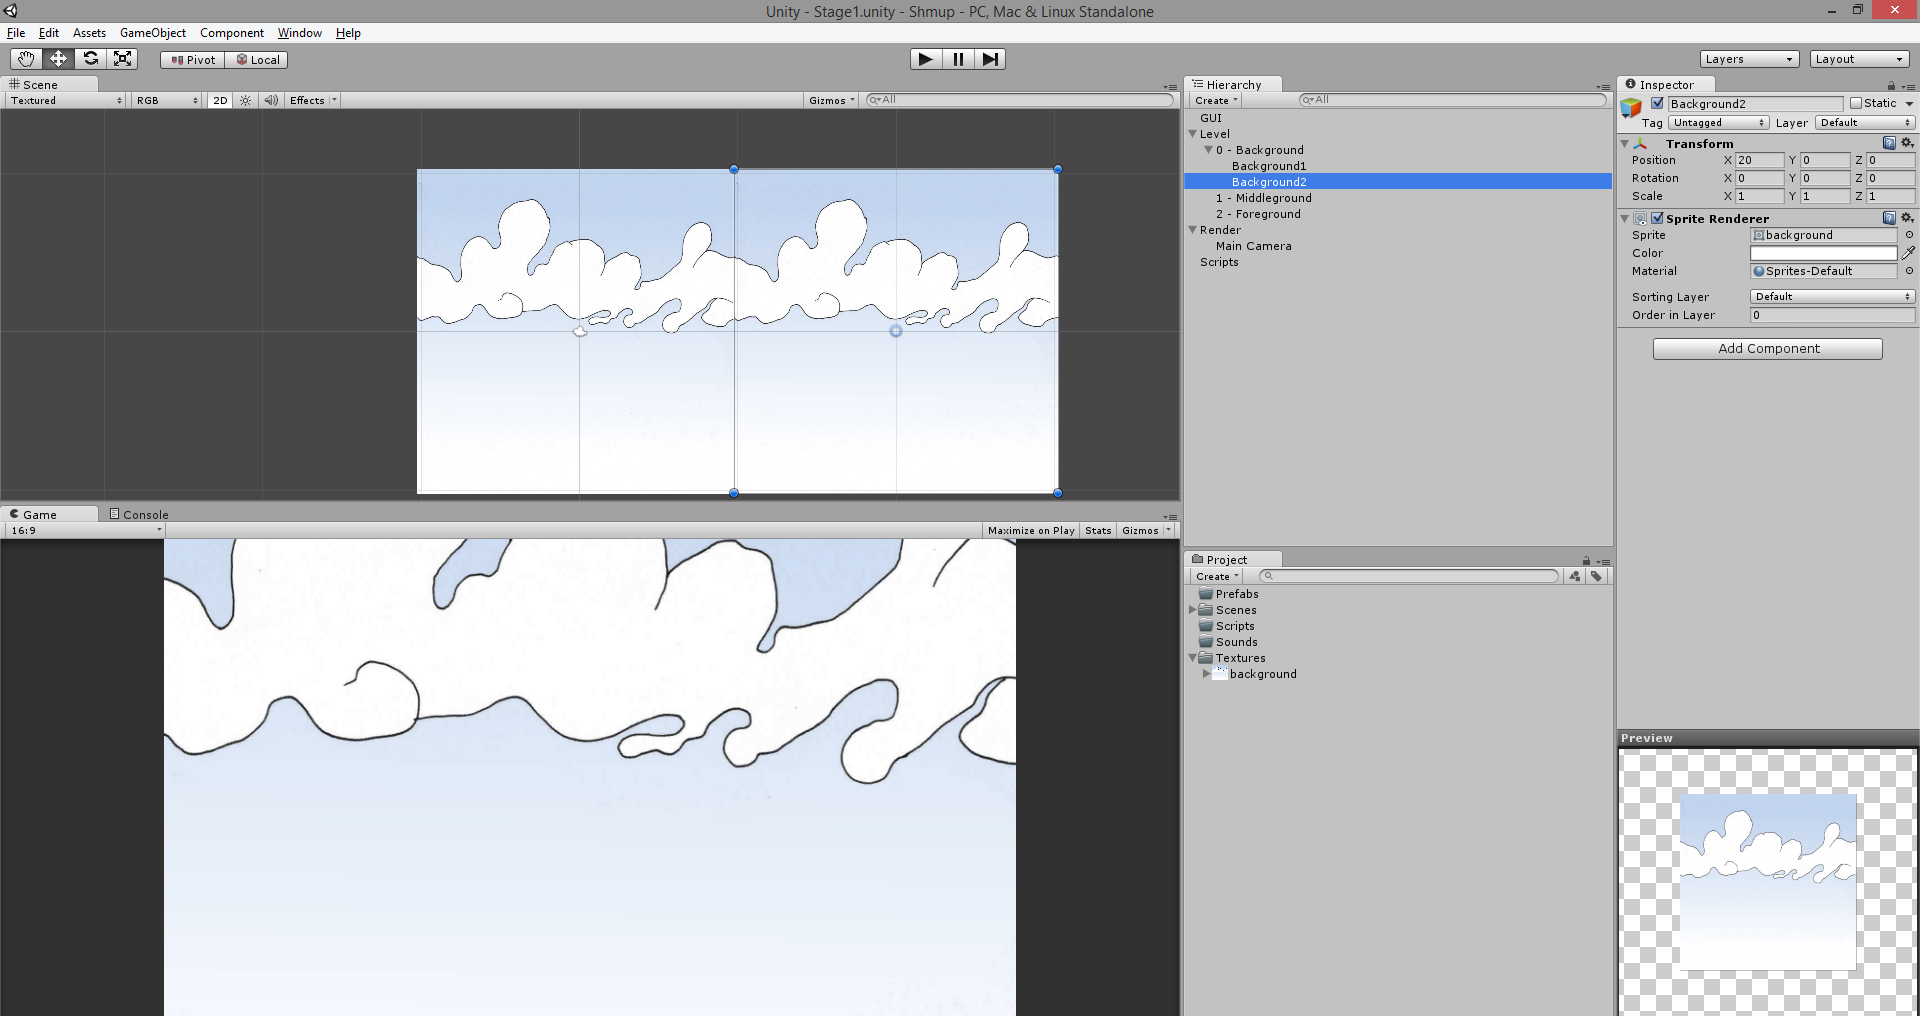
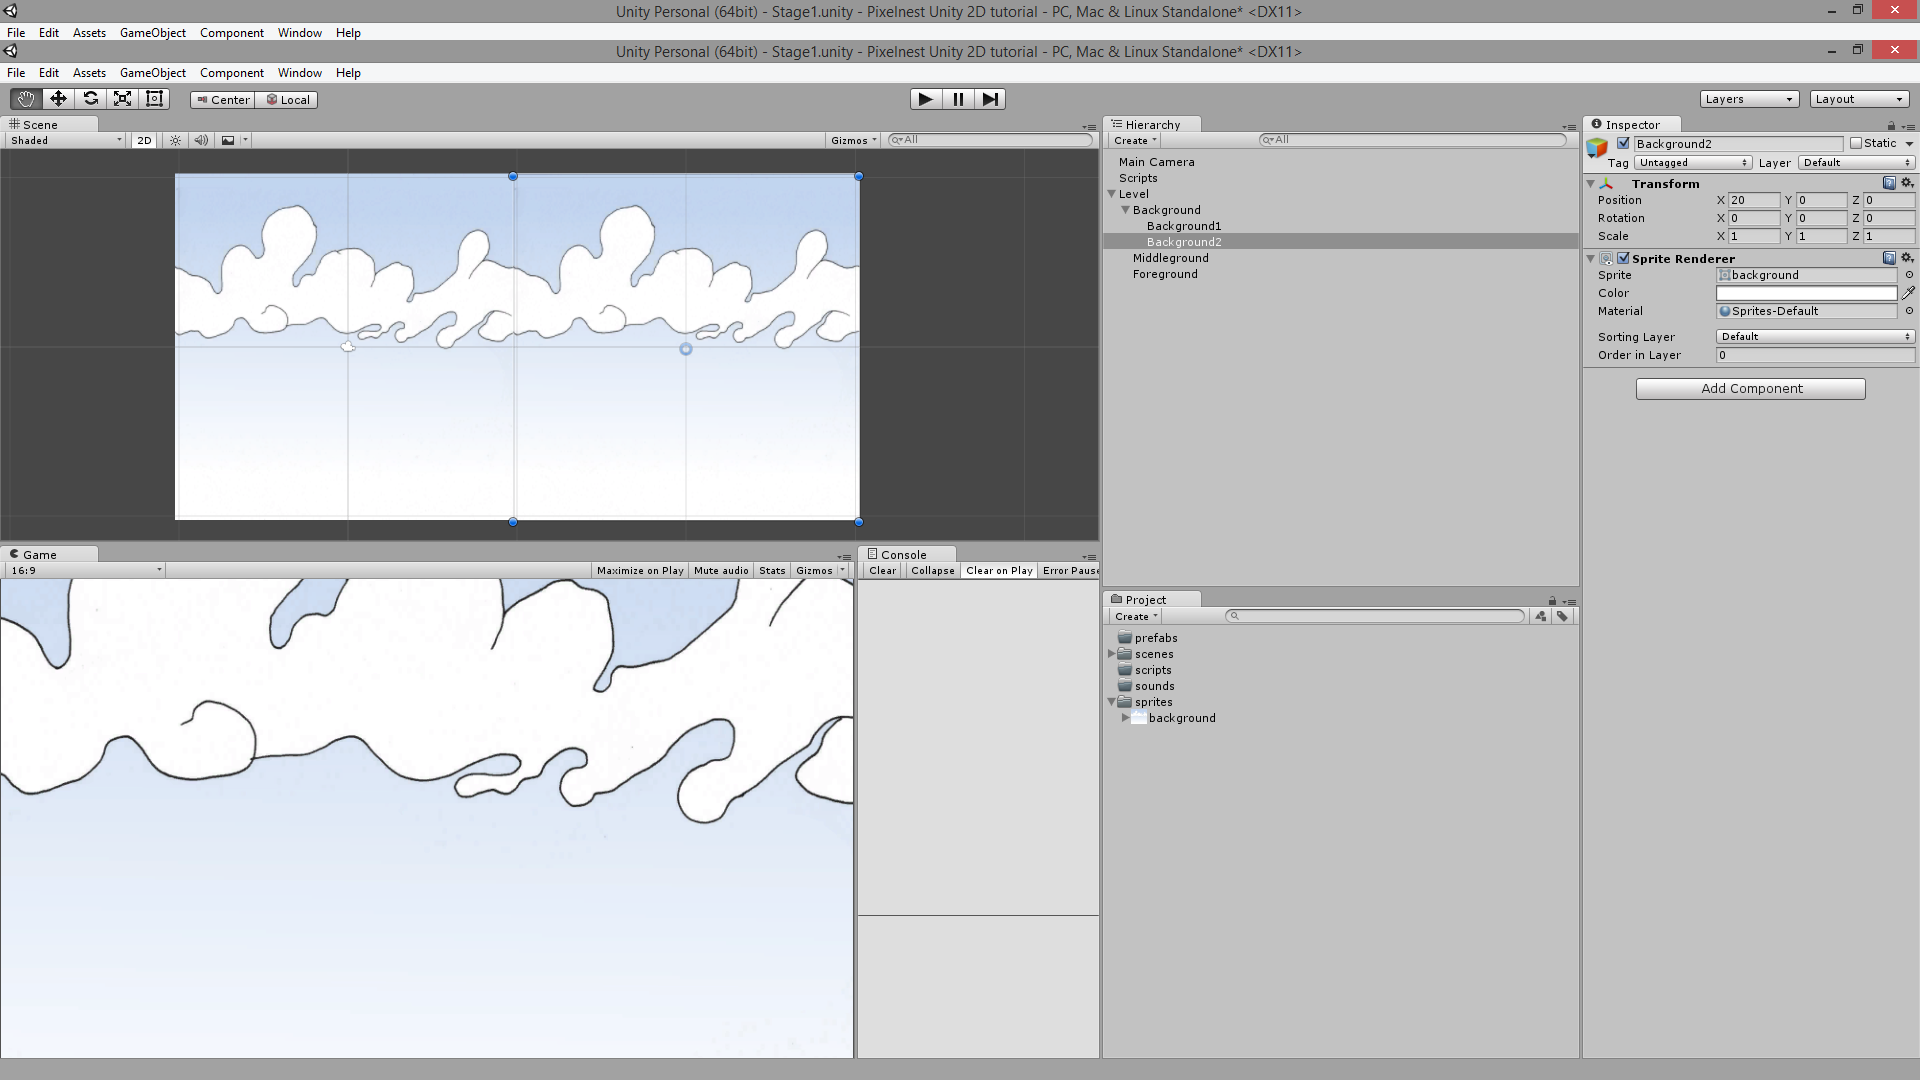
Tutorial: Chapter 2 Unity 5 migration

diff --git a/tutorials/2d-game-unity/background-and-camera/index.md b/tutorials/2d-game-unity/background-and-camera/index.md
@@ -25,7 +25,7 @@ Your first background will be static. We will use the following image:
 
 _(Right click to save the image)_
 
-Import the image in the "Textures" folder. Simply copy the file in it, or drag and drop it from the explorer.
+Import the image in the "sprites" folder. Simply copy the file in it, or drag and drop it from the explorer.
 
 Do not worry about the import settings for now.
 
@@ -39,11 +39,13 @@ In general, we call "sprite" a 2D image displayed in a video game. Here, it's a 
 
 ## Add the texture to the sprite
 
-Unity may have set automatically your background as the sprite to display. If not, or if you want to change the texture, go to the inspector and select "background":
+We will now select the sprite to display. Make your the "New Sprite" is selected and look at go to the inspector. Set the `Sprite` as "background":
 
 [ ![Select a sprite][sprite_select] ][sprite_select]
 
 _(You have to click on the small round icon at the right of the input box to show the "Select Sprite" inspector)_
+
+You can see that some other sprites are there. Those are the default images used by the new Unity UI.  
 
 <md-note>
 _"My sprite doesn't show up in the dialog?"_: First, make sure you are in the "Assets" tab of the "Select Sprite" dialog. <br />Some readers have reported that, in their project, this dialog was empty. The reason is that for some Unity installations, even with a fresh new 2D project, images are imported as "Texture" and not "Sprite".
@@ -54,11 +56,15 @@ _"My sprite doesn't show up in the dialog?"_: First, make sure you are in the "A
 We don't know why everybody doesn't seem to have the same behavior.
 </md-note>
 
-Well, we have set a simple sprite displaying a cloudy sky background. Let's reorganize the scene.
+Well, we have set a simple sprite displaying a cloudy sky background. You can think it was a bit complicated just for that.
+
+In fact, we could have just "drag'n'dropped" the sprite from the Project tab to the Scene one.
+
+Let's reorganize the scene.
 
 In the "Hierarchy" pane, select the ``New Sprite``. Rename it in ``Background1`` or something you will easily remember.
 
-Then move the object to where it belongs: ``Level -> 0 - Background``. Change its position to ``(0, 0, 0)``.
+Then move the object to where it belongs: ``Level -> Background``. Change its position to ``(0, 0, 0)``.
 
 [ ![Background is set][display_background] ][display_background]
 
@@ -70,6 +76,40 @@ _Tip_: You can duplicate an objet with the ``cmd + D`` (OS X) or ``ctrl + D`` (W
 
 [ ![Background2 in place][background2_in_place] ][background2_in_place]
 
+# Sprite layers
+
+The next statement will seems prettry obvious but it has some consequences: we are displaying a 2D world.
+
+This means that all images are at the same depth, 0. And you (and the graphics engine) don't really know who's going to be displayed first.
+
+Sprite layers allow us to tell Unity what is in front and what is behind.
+
+In Unity, we can change the "Z" of our elements, and this will allow us to have layers. This is actually what we were doing in this tutorial before the Unity 5 update.
+
+But we thought that it was a good idea to now use Sprite Layers.
+
+On your "Sprite Renderer" component, you have a field named... "Sprite Layer", actually set to Default.
+
+If you click on it, a short list will drop:
+
+[ ![Sorting layer list][sorting_layers_list] ] [sorting_layers_list]
+
+Let's add some layers to fit our needs (use the "+" button):
+
+[ ![Sorting layer add][sorting_layers_add] ] [sorting_layers_add]
+
+Apply the "Background" layer to our backgrounds sprites:
+
+[ ![Set sorting layer][sorting_layers_set] ] [sorting_layers_set]
+
+<md-tip>
+_Tip_: the settings "Order in Layer" is a way to limit sub layers. Sprites with lower numbers are renderer **before** sprites with greater numbers. 
+</md-tip>
+
+<md-note>
+_Note_: the "Default" layer cannot be removed, because this is the layer used by 3D elements. You can have 3D objects in your 2D game. Particles are considered as 3D objects by Unity, so they will be rendered at this layer. 
+</md-note>
+
 # Adding background elements
 
 Also known as _props_. These elements aren't used to improve the gameplay but to visually enhance the scene.
@@ -80,11 +120,11 @@ Here are some simple flying platform sprites:
 
 _(Right click to save the image)_
 
-As you can see, we got two platforms in one file. This is a good way to learn how to crop sprites with the new Unity tools.
+As you can see, we got two platforms in one file. This is a good way to learn how to crop sprites with the Unity tools.
 
 ## Getting two sprites from one image
 
-1. Import the image in your "Textures" folder
+1. Import the image in your "sprites" folder
 2. Select the "platforms" sprite and go to the inspector
 3. Change "Sprite Mode" to "Multiple"
 4. Click on "Sprite Editor"
@@ -95,13 +135,13 @@ In the new window ("Sprite Editor"), you can draw rectangles around each platfor
 
 [ ![Sprite Editor][sprite_editor] ][sprite_editor]
 
-The top-left button "Slice" allow you to quickly and automatically make this tedious task:
+Call the platforms "platform1" and "platform2".
 
-[ ![Automatic slicing][slice] ][slice]
-
+<md-tip>
+_Tip_: the top-left button "Slice" allow you to quickly and automatically make this tedious task.<br />
+<br />
 Unity will find the objects inside the image and will slice them automatically. You can specify the default pivot point, or set a minimum size for a slice. For a simple image without artifacts, it's really efficient. However, if you use this tool, _be careful and check the result_ to be sure to get what you want.
-
-For this tutorial, do it manually first. Call the platforms "platform1" and "platform2".
+</md-tip>
 
 Now, under the image file, you should see the two sprites separately:
 
@@ -109,9 +149,11 @@ Now, under the image file, you should see the two sprites separately:
 
 ## Adding them to the scene
 
-We will proceed like for the background sprite: create a new ``Sprite`` and select the "platform1" sprite. Repeat for "platform2".
+We will proceed like for the background sprite: create a new ``Sprite`` and select the "platform1" sprite (or drag'n'drop **one by one** from Proejct to Scene tab). Repeat for "platform2".
 
-Place them in the ``1 - Middleground`` object. Again make sure they have a ``0`` Z position.
+Set their "Sprite Layer" to "Platforms".
+
+Place them in the ``Middleground`` object. 
 
 [ ![Two shiny new platforms][adding_platforms] ] [adding_platforms]
 
@@ -133,25 +175,15 @@ _Note on the "Prefab" buttons_: If you modify the game object later, you can "Ap
 
 Creating prefabs with the platform objects will make them easier to reuse later. Simply drag the ``Prefab`` into the scene to add a copy. Try to add another platform that way.
 
-You are now able to add more platforms, change their positions, scales and planes (you can put some in background or foreground too, **just make sure that the platform Z position is ``0`**).
+You are now able to add more platforms, change their positions, scales and planes.
+
+You can put some in background or foreground too. Remember that the "Background", "Middleground" and "Foreground" objects are just folders. So you need to set the right "Sprite Layer" (Platforms) and change the "Order in Layer". 
+
+Use `-10` for far platforms, and up this number as you reach foreground. An example:
+
+[ ![Add a platform in background][platform_background] ][platform_background]
 
 It's not very fancy but in two chapters we will add a parallax scrolling and it will suddenly bring the scene to life.
-
-# Layers
-
-Before we get any further, we will modify our homemade layers to avoid any display order issues.
-
-Simply change the Z position of the game objects in your "Hierarchy" view as following:
-
-| Layer            | Z Position |
-| ---------------- | ---------- |
-| 0 - Background   | 10         |
-| 1 - Middleground | 5          |
-| 2 - Foreground   | 0          |
-
-If you switch from 2D to 3D view in the "Scene" view, you will clearly see the layers:
-
-[ ![Layers in 3D view][layers_3d] ][layers_3d]
 
 # Camera and lights
 
@@ -177,6 +209,11 @@ In the next chapter, we will learn how to add a player and its enemies.
 [sprite_select]: ./-img/sprite_select.png
 [display_background]: ./-img/display_background.png
 [background2_in_place]: ./-img/background2_in_place.png
+
+[sorting_layers_list]: ./-img/sorting_layers.png
+[sorting_layers_add]: ./-img/sorting_layers_add.png
+[sorting_layers_set]: ./-img/sorting_layers_set.png
+
 [sprite_multiple]: ./-img/sprite_multiple.png
 [sprite_editor]: ./-img/sprite_editor.png
 [sprite_editor_result]: ./-img/sprite_editor_result.png
@@ -184,4 +221,5 @@ In the next chapter, we will learn how to add a player and its enemies.
 [layers_3d]: ./-img/layers.gif
 [prefabs]: ./-img/prefabs.png
 [prefab_link]: ./-img/prefab_link.png
-[slice]: ./-img/slice.png
+
+[platform_background]: ./-img/platform_background.png
